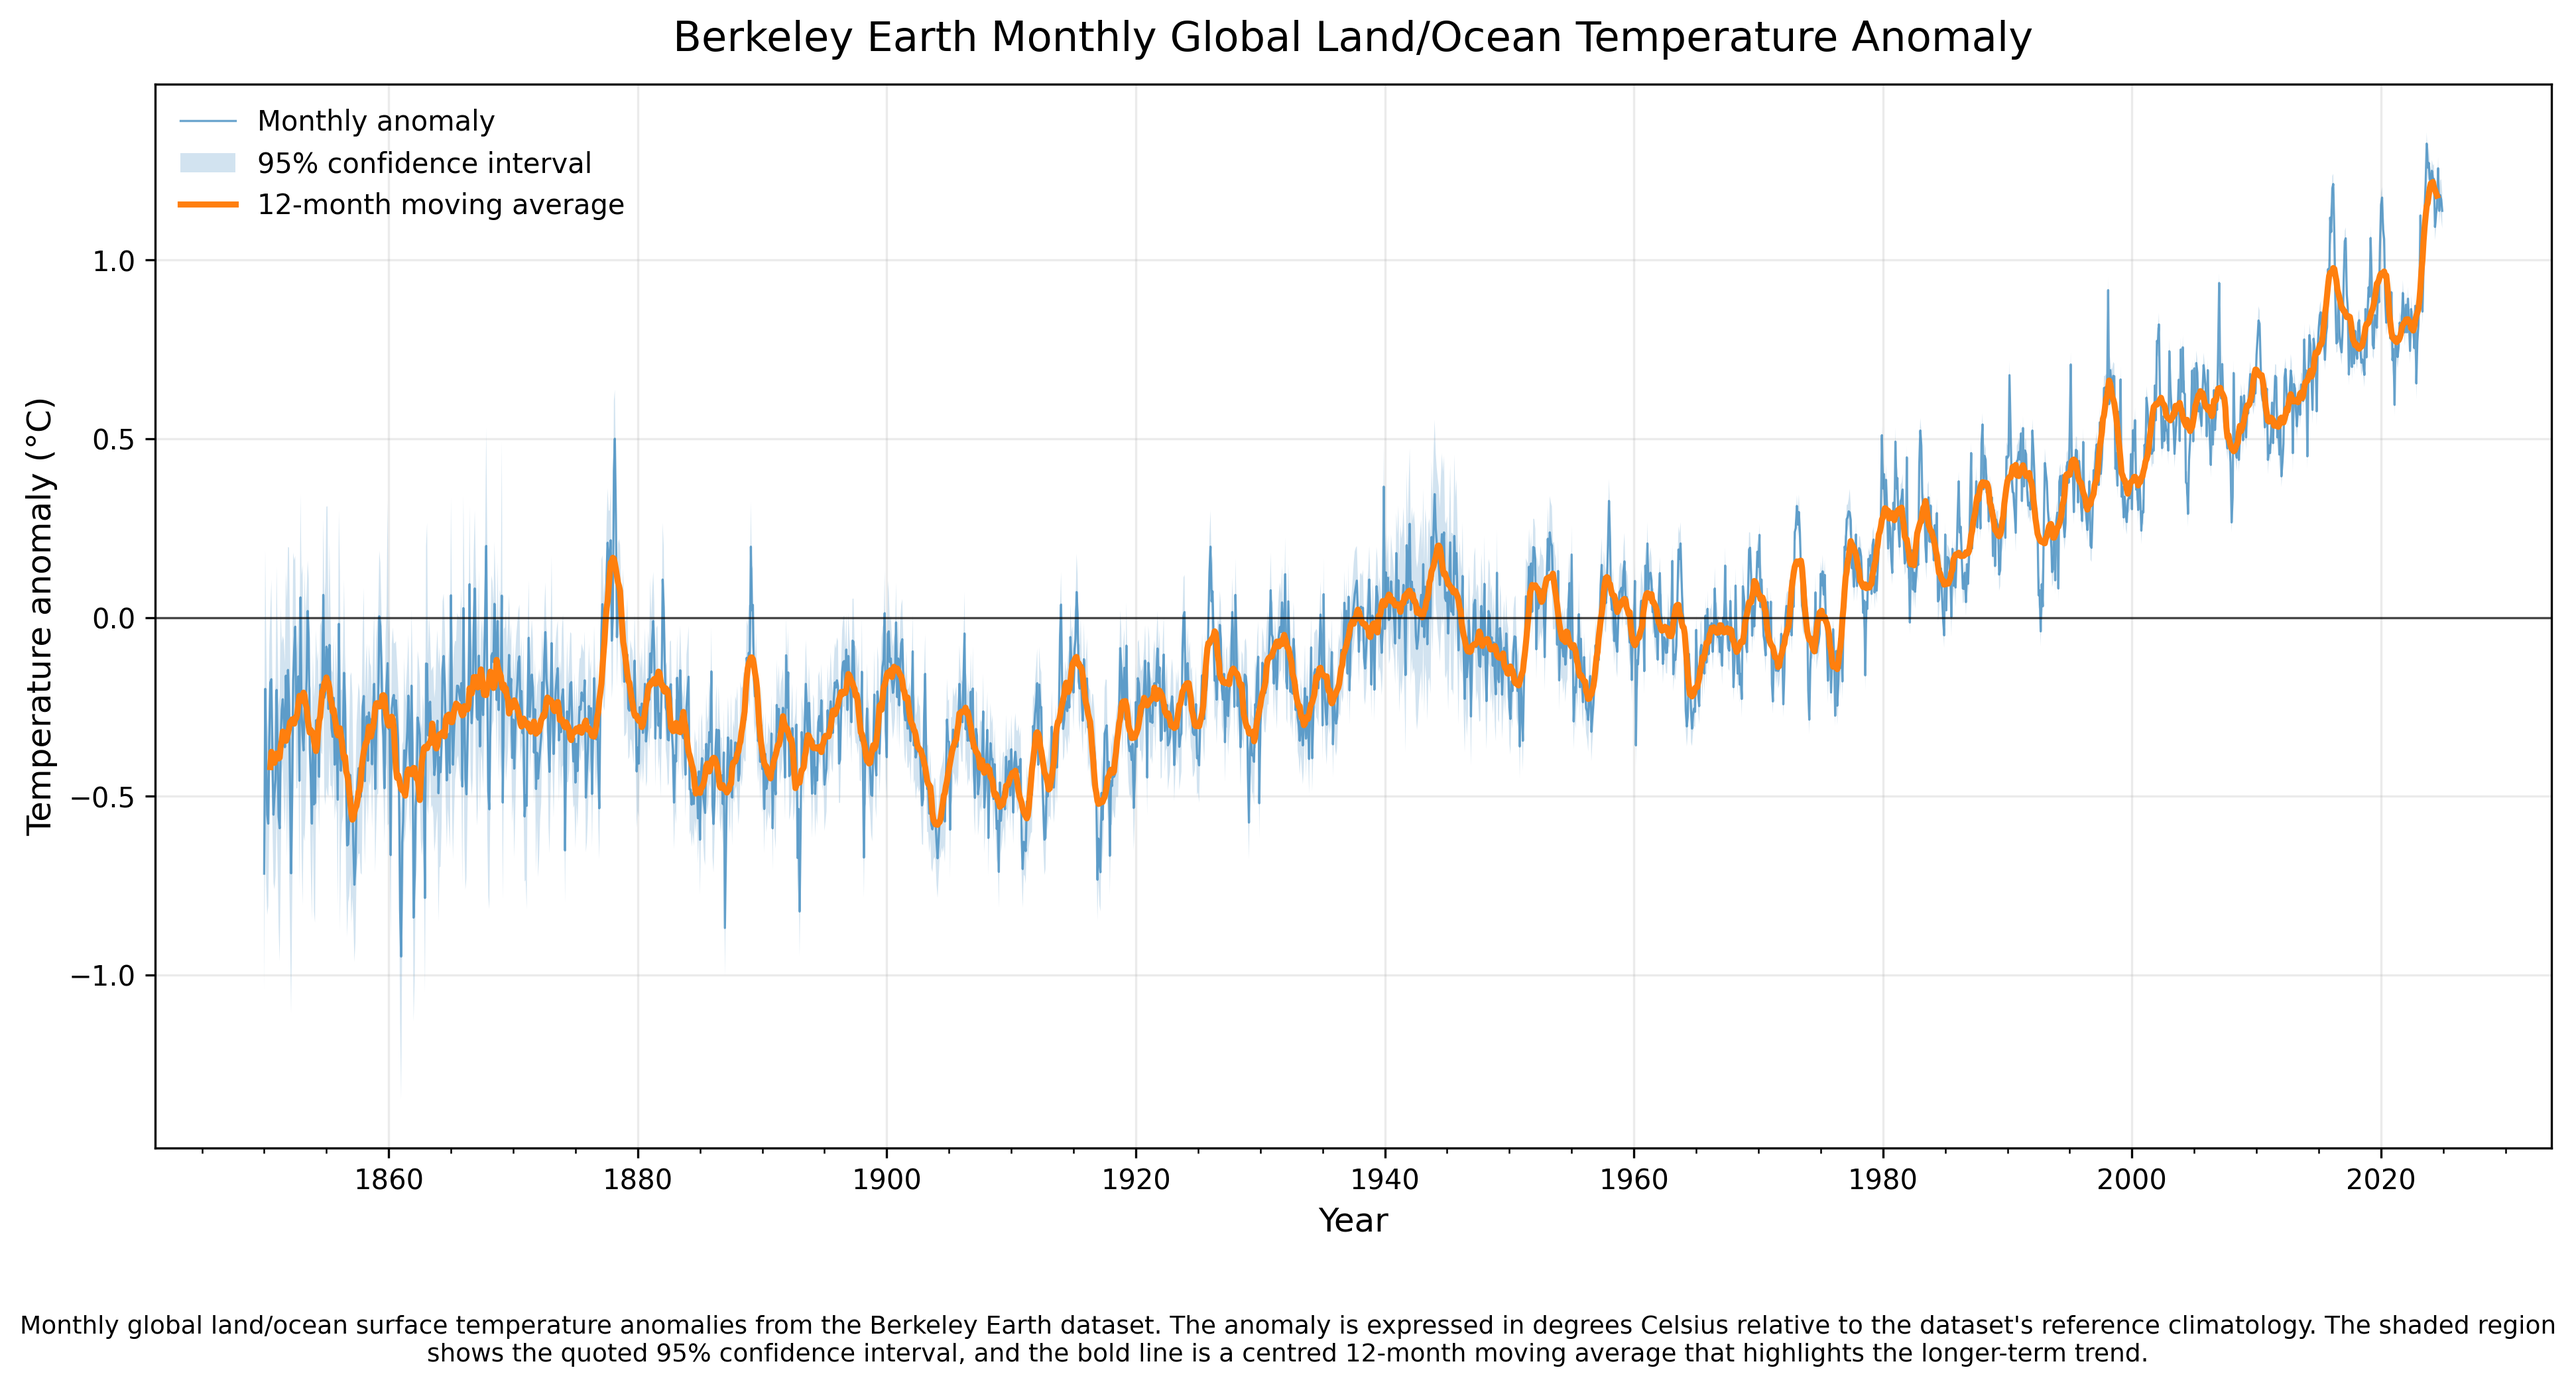
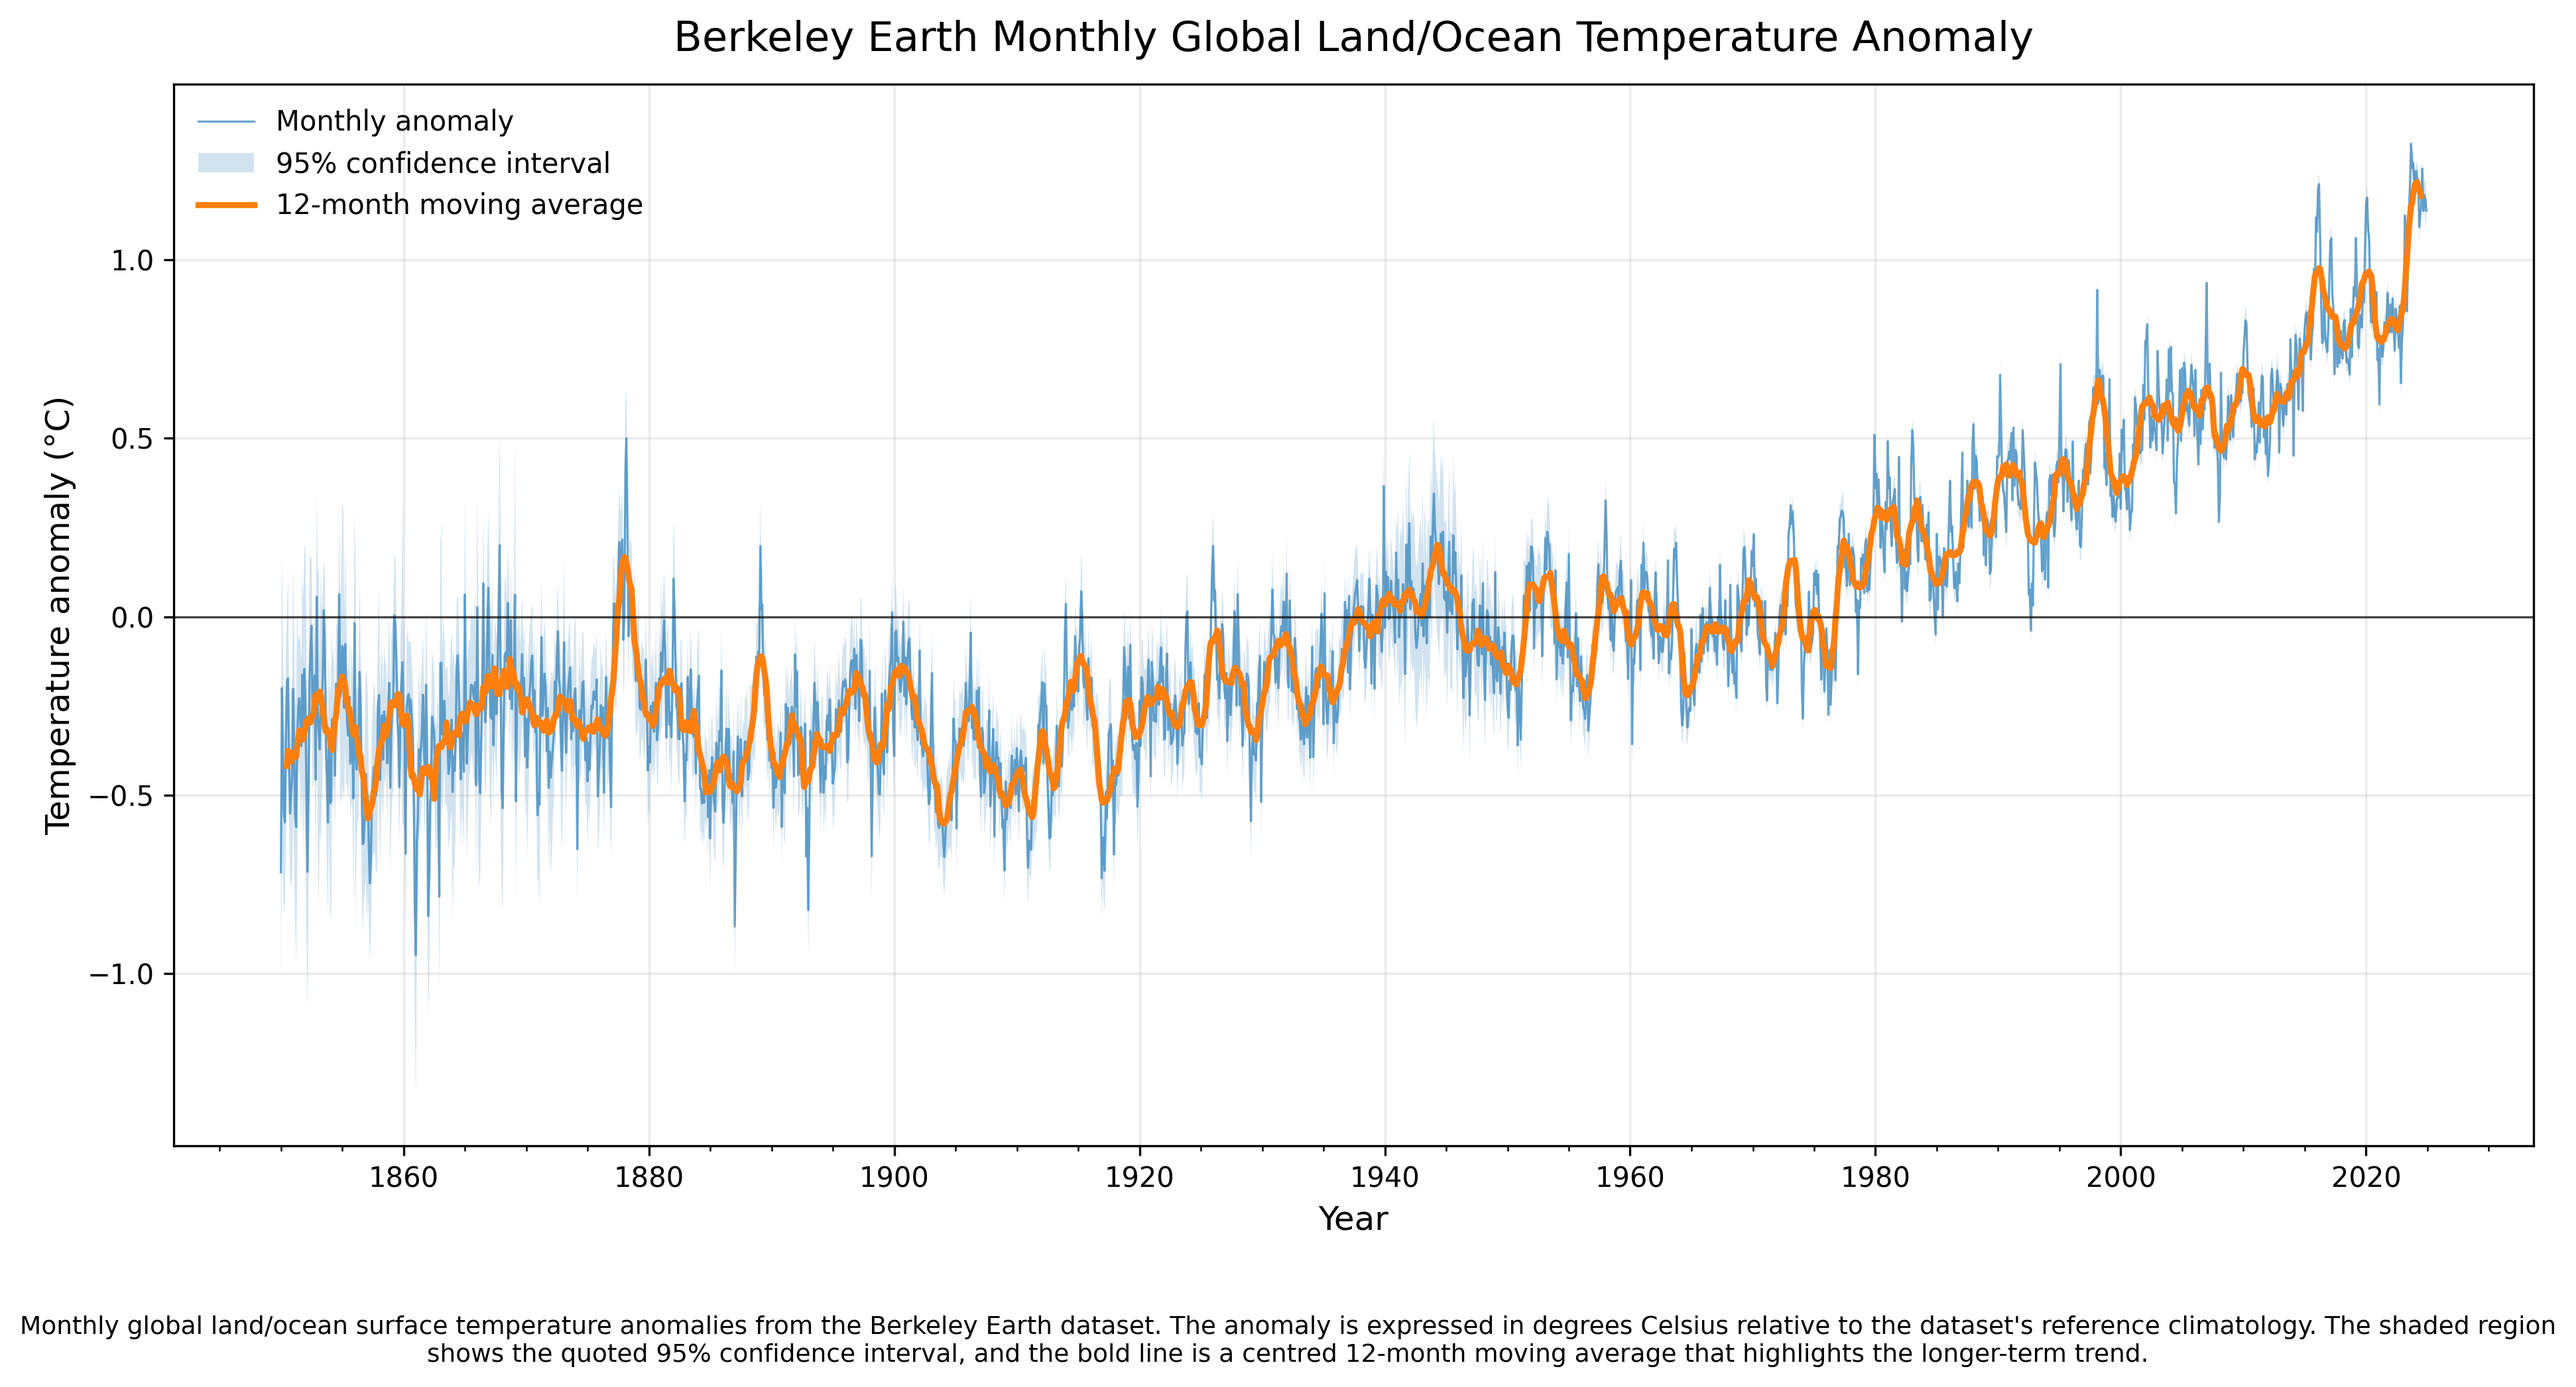
Last changes

diff --git a/MiniProject_1/harmonize_ghg_population.py b/MiniProject_1/harmonize_ghg_population.py
@@ -19,9 +19,11 @@ This script:
   1. Loads the CO2 and CH4 series (already annual).
   2. Streams the (potentially huge) population file in chunks, filters
      to one Location/Variant, and sums PopTotal per year -> one row/year.
-  3. Restricts all series to the period covered by ALL of them (the
+  3. Converts the monthly 12-month temperature moving average to annual
+      means.
+  4. Restricts all series to the period covered by ALL of them (the
      "common period") and joins them into a single harmonized table.
-  4. Computes Pearson and Spearman correlation coefficients (with
+  5. Computes Pearson and Spearman correlation coefficients (with
      p-values) between every pair of harmonized series.
 
 Usage
@@ -104,6 +106,26 @@ def load_population_annual_total(
     return pop.to_frame()
 
 
+def load_temperature_annual_mean(path: str) -> pd.DataFrame:
+    """Convert the monthly 12-month moving average to annual means.
+
+    The input is exported by plot_berkeley.py with columns ``date`` and
+    ``moving_average``. Rows at the ends of the record are absent because a
+    centred 12-month window cannot be calculated there.
+    """
+    df = pd.read_csv(path, parse_dates=["date"])
+    df = df.dropna(subset=["date", "moving_average"]).copy()
+    df["year"] = df["date"].dt.year
+    annual = (
+        df.groupby("year")["moving_average"]
+        .mean()
+        .rename("temperature_C")
+        .to_frame()
+    )
+    annual.index.name = "year"
+    return annual
+
+
 # ---------------------------------------------------------------------
 # Harmonization
 # ---------------------------------------------------------------------
@@ -161,6 +183,11 @@ def main():
     parser.add_argument("--co2", default="data/co2_annmean_gl.csv", help="Path to co2_annmean_gl.csv")
     parser.add_argument("--ch4", default="data/ch4_annmean_gl.csv", help="Path to ch4_annmean_gl.csv")
     parser.add_argument(
+        "--temperature",
+        default="data/berkeley_12_month_moving_average.csv",
+        help="Path to the Berkeley 12-month moving-average CSV.",
+    )
+    parser.add_argument(
         "--population",
         default="data/WPP2024_PopulationExposureBySingleAgeSex_Medium_1950-2023.csv",
         help="Path to the UN WPP population-by-age CSV (optional; large file, read in chunks).",
@@ -174,6 +201,12 @@ def main():
         load_noaa_annual_mean(args.co2, "co2_ppm"),
         load_noaa_annual_mean(args.ch4, "ch4_ppb"),
     ]
+
+    temperature_path = Path(args.temperature)
+    if temperature_path.exists():
+        frames.append(load_temperature_annual_mean(temperature_path))
+    else:
+        print(f"Note: temperature file '{temperature_path}' not found - continuing without temperature.")
 
     if args.population:
         pop_path = Path(args.population)

diff --git a/MiniProject_1/plot_berkeley.py b/MiniProject_1/plot_berkeley.py
@@ -55,6 +55,13 @@ df["moving_average"] = (
     .mean()
 )
 
+# Save the valid centred 12-month moving-average values for reuse.
+moving_average = df[["date", "moving_average"]].dropna()
+moving_average.to_csv(
+    "data/berkeley_12_month_moving_average.csv",
+    index=False
+)
+
 # ------------------------------------------------------------
 # Plot
 # ------------------------------------------------------------
